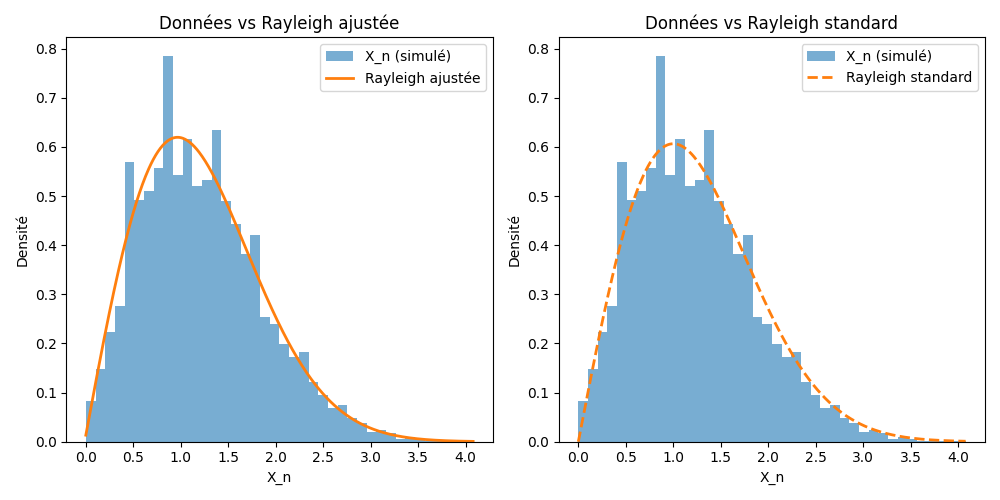
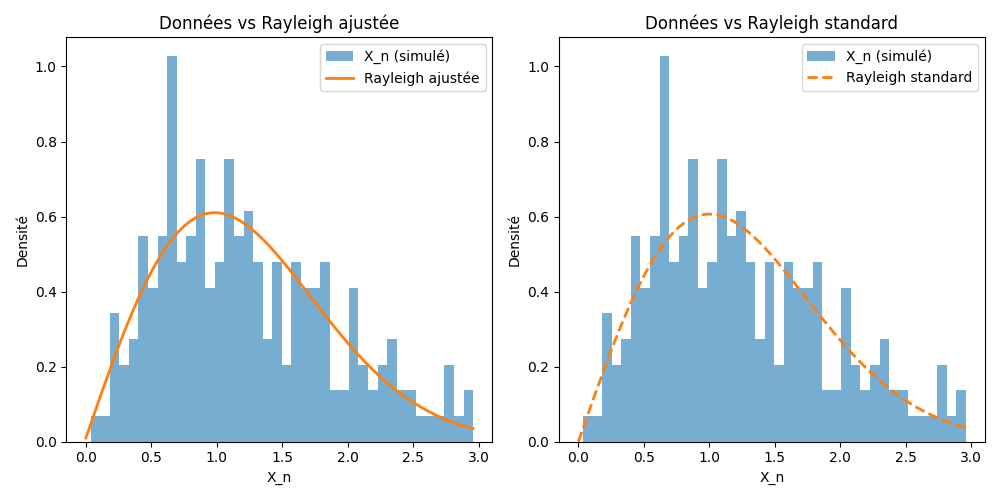
added birtday problem script

diff --git a/birthday_problem.py b/birthday_problem.py
@@ -1,0 +1,55 @@
+import numpy as np
+from scipy.stats import rayleigh, kstest
+import matplotlib.pyplot as plt
+import math
+import random
+
+def simulate_birthday_collision(n_days=365):
+    seen = set()
+    for i in range(1, n_days + 1):
+        birthday = random.randint(0, n_days - 1)
+        if birthday in seen:
+            return i 
+        seen.add(birthday)
+    return n_days 
+
+def run_experiment(n_samples=100000, n_days=365):
+    collisions = [simulate_birthday_collision(n_days) for _ in range(n_samples)]
+    T_n = [c / math.sqrt(n_days) for c in collisions]
+    return T_n
+
+def plot_rayleigh_comparison(T_n, filename="birthday_vs_rayleigh.png"):
+    plt.figure(figsize=(10, 5))
+    
+    # Subplot gauche : Rayleigh fit
+    plt.subplot(1, 2, 1)
+    plt.hist(T_n, bins=50, density=True, alpha=0.6, label="T_n (Birthday problem)")
+    x_vals = np.linspace(0, max(T_n), 500)
+    fitted_params = rayleigh.fit(T_n)
+    plt.plot(x_vals, rayleigh.pdf(x_vals, *fitted_params), lw=2, label="Rayleigh ajustée")
+    plt.title("Distribution T_n vs Rayleigh ajustée")
+    plt.xlabel("T_n")
+    plt.ylabel("Densité")
+    plt.legend()
+
+    # Subplot droite : Rayleigh standard
+    plt.subplot(1, 2, 2)
+    plt.hist(T_n, bins=50, density=True, alpha=0.6, label="T_n (Birthday problem)")
+    plt.plot(x_vals, rayleigh.pdf(x_vals), lw=2, linestyle="--", label="Rayleigh standard")
+    plt.title("Distribution T_n vs Rayleigh standard")
+    plt.xlabel("T_n")
+    plt.ylabel("Densité")
+    plt.legend()
+
+    plt.tight_layout()
+    plt.savefig(filename)
+    print(f"📊 Graphique sauvegardé dans : {filename}")
+
+def test_ks(T_n):
+    stat, p_value = kstest(T_n, 'rayleigh', args=rayleigh.fit(T_n))
+    print(f"KS stat: {stat:.4f}, p-value: {p_value:.4f}")
+
+if __name__ == "__main__":
+    T_n = run_experiment(n_samples=1000000, n_days=365)
+    plot_rayleigh_comparison(T_n)
+    test_ks(T_n)

diff --git a/launch_test.py b/launch_test.py
@@ -7,8 +7,8 @@ from bubble_sort import bubble_sort
 from kolmogorov_smirnoff_test import get_params, get_ks_statistic
 from scipy.stats import rayleigh
 
-n_samples = 10000
-n_elements = 1000
+n_samples = 200
+n_elements = 3000
 
 def generate_pass_count(_):
     random_list = create_random_list(n_elements, 0, 1000)
